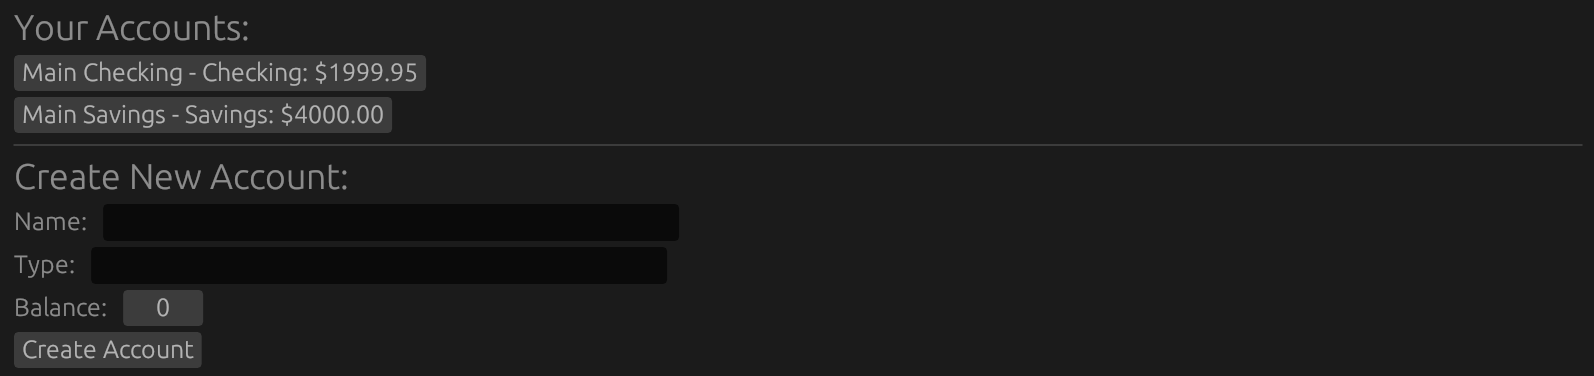
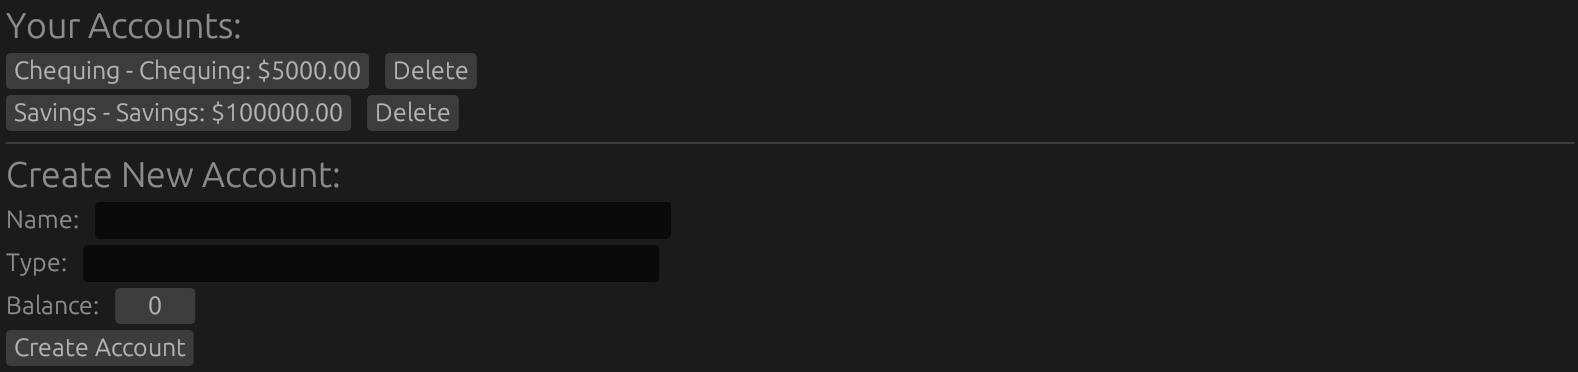
updated README

diff --git a/README.md b/README.md
@@ -79,6 +79,8 @@ FinanceR is a desktop GUI personal finance manager with secure user accounts and
 **To begin:**
 1. Run the FinanceR application.
 2. You will start on the **Login** screen.
+![FinanceR Registration Screen](images/Login_page.png)
+3. Click on the **Register** button to setup as a new User.
 
 ---
 
@@ -92,7 +94,7 @@ On the **FinanceR Registration** screen:
 3. Enter a **Password**
 4. Click **Create account**
 
-If successful, you can return to login via **Back to Login**.
+If the email is of a valid format, a new User will be created, and you will be taken back to the Login Screen.
 
 **Security note:** Passwords are not stored in plain text. FinanceR stores password hashes using a secure hashing algorithm.
 
@@ -100,7 +102,7 @@ If successful, you can return to login via **Back to Login**.
 
 ### 3. Logging In
 
-![FinanceR Login Screen](images/login.png)
+![FinanceR Login Screen](images/Login_page.png)
 
 On the **FinanceR Login** screen:
 1. Enter your **Username**
@@ -115,32 +117,33 @@ If credentials are valid, you will be taken to the **Dashboard**.
 
 The **FinanceR Dashboard** is the home screen after login.
 
-![FinanceR Dashboard Screen](images/dashboard.png)
+![FinanceR Dashboard Screen](images/homepage.png)
 
 It includes:
-- **Your Accounts**: a list of existing accounts and their balances.
-- **Create New Account**: create new accounts directly from the dashboard.
-- Navigation buttons:
-  - **Budgets**
+- **Basic Controls**: Logout, Delete User and Exit Program buttons
+- **Your Accounts**: a list of existing accounts and their balances, and a button to delete an account
+- **Create New Account**: create new accounts directly from the dashboard
+- **Accounts and Activity**:
   - **Transactions**
   - **Transfers**
+  - **Budgets**
 - **Planning Tools**
+  - **Savings Calculator**
   - **Bond Tools**
   - **Mortgage Tools**
   - **Cash Flow Tools**
-- **Logout** to return to the login screen.
 
 ---
 
 ### 5. Account Management
 
-Accounts represent financial containers such as checking or savings accounts.
+Accounts represent financial containers such as chequing or savings accounts.
 
-![FinanceR Accounts Screen](images/accounts.png)
+![FinanceR Accounts Screen](images/Accounts.png)
 
 **To create a new account:**
 1. Enter an account **Name**
-2. Enter an account **Type** (e.g., Checking, Savings)
+2. Enter an account **Type** (e.g., Chequing, Savings)
 3. Enter an initial **Balance**
 4. Click **Create Account**
 
@@ -152,9 +155,21 @@ The account will immediately appear in **Your Accounts**, and its balance will b
 
 Open **Transactions** from the Dashboard to record income and expenses.
 
-![FinanceR Transactions Screen](images/transactions.png)
+![FinanceR Transactions Screen](images/Transactions.png)
 
-#### Adding a Transaction
+#### Adding a New Transaction
+
+1. Select an **Account**
+2. Enter an **Amount**
+3. Toggle **Expense** if the transaction is a cost (unchecked indicates income)
+4. Choose a **Category** (e.g., Food & Dining, Groceries, Income)
+5. Select a **Next Run** Date and Time
+6. Select a **Frequency**
+7. Click **Add Recurring Transaction**
+
+Account balances update automatically.
+
+#### Adding a New Recurring Transaction
 
 1. Select an **Account**
 2. Enter an **Amount**
@@ -181,7 +196,7 @@ Transaction history can be filtered by:
 
 #### Exporting Transactions
 
-Click **Export CSV** to download transaction data in CSV format.
+Click **Export CSV Report** to download a transaction report in CSV format.
 
 ---
 
@@ -189,7 +204,7 @@ Click **Export CSV** to download transaction data in CSV format.
 
 Open **Transfers** from the Dashboard to move funds between accounts.
 
-![FinanceR Transfers Screen](images/transfers.png)
+![FinanceR Transfers Screen](images/Transfers.png)
 
 #### Creating a Transfer
 
@@ -198,6 +213,17 @@ Open **Transfers** from the Dashboard to move funds between accounts.
 3. Enter an **Amount**
 4. Choose a **Date**
 5. Click **Execute Transfer**
+
+Transfers update both account balances simultaneously.
+
+#### Creating a Recurring Transfer
+
+1. Select a **From Account**
+2. Select a **To Account**
+3. Enter an **Amount**
+4. Choose a **Next Run** Date and Time
+5. Select a **Frequency** from the menu
+6. Click **Add Recurring Transfer**
 
 Transfers update both account balances simultaneously.
 
@@ -290,20 +316,31 @@ The Budgets screen includes visual summaries to aid financial insight:
 
 ### 9. Planning Tools
 
-FinanceR includes planning utilities for long-term financial projections. All tools support saving and loading scenarios via JSON files.
+FinanceR includes planning utilities for long-term financial projections. The Bond, Mortgage, and Cash Flow tools support saving and loading scenarios via JSON files.
 
-![FinanceR Planning Tools Screen](images/planningtools.png)
+![FinanceR Planning Tools Screen](images/PlanningTools.png)
 
 ---
 
-#### 9.1 Bond Tools
+#### 9.1 Savings Calculator
+
+The Savings Tool allows users to project how their savings will grow.
+
+![FinanceR Bond Tools Screen](images/Savings.png)
+
+**Workflow**
+1. 
+
+---
+
+#### 9.2 Bond Tools
 
 The Bond Tools allow users to price fixed-income securities.
 
 ![FinanceR Bond Tools Screen](images/bonds.png)
 
 **Workflow:**
-1. Specify a JSON file name (e.g., `bond_state.json`)
+1. Specify a JSON file name (default: `bond_state.json`)
 2. Click **Load** to restore previous scenarios (optional)
 3. Click **Add Bond Scenario**
 4. Enter:
@@ -319,7 +356,7 @@ Use **Save** to persist scenarios.
 
 ---
 
-#### 9.2 Mortgage Tools
+#### 9.3 Mortgage Tools
 
 Mortgage Tools compute payments and compare mortgage scenarios.
 
@@ -341,7 +378,7 @@ Scenarios can be saved and reloaded.
 
 ---
 
-#### 9.3 Cash Flow Tools
+#### 9.4 Cash Flow Tools
 
 Cash Flow Tools support present/future value calculations and multi-cash-flow scenarios.
 
@@ -609,7 +646,7 @@ The development of this project provided a deeply engaging and comprehensive lea
 
 One of the most significant lessons concerned our approach to testing and development methodology. Our team did not adopt test-driven development during the early stages, opting instead to implement functionality first and introduce tests retrospectively. While this approach allowed for rapid initial development, it introduced additional complexity later when validating the system’s correctness. Writing tests after the fact revealed design shortcomings, including tightly coupled components, unclear module boundaries, and untested edge cases, which required extensive refactoring to address. For example, certain state-handling functions in the GUI relied on assumptions that were not easily decoupled for testing, necessitating the creation of additional abstractions to make the tests feasible. This experience reinforced that testing is not solely a verification mechanism but also an integral part of system design, encouraging modularity, clearer interfaces, and more deliberate architectural decisions. When combined with Rust’s strong type system, ownership model, and compile-time guarantees, adopting TDD from the beginning would likely have prevented a number of these issues, improved code correctness, and reduced technical debt, enhancing confidence in both individual components and the system as a whole. 
 
-A further lesson emerged from our experience with data modeling and database interactions. Leveraging an Object-Relational Mapping library to interface with a SQLite database greatly simplified the process of handling persistent data while also encouraging a clean and modular project structure. Expressing queries, schema definitions, and migrations directly in Rust reduced boilerplate code, allowed the compiler to catch errors early, and made the overall system easier to reason about. At the same time, our early decisions regarding core data models highlighted the importance of deliberate planning. Several Rust structs were initially defined to anticipate future features but ended up unused as the project evolved, necessitating the use of allow dead code annotations to suppress compiler warnings. This underscored the value of aligning planned models with actual system requirements and demonstrated that periodic review and refactoring of data structures is crucial to maintain clarity and reduce unnecessary complexity. Rust’s strict compiler feedback provided a continuous reminder of the need for intentional design and offered guidance for removing redundant abstractions, thereby reinforcing disciplined coding practices and emphasizing the balance between anticipating future needs and adhering to current functionality. 
+A further lesson emerged from our experience with data modeling and database interactions. Leveraging Object-Relational Mapping to interface with a SQLite database greatly simplified the process of handling persistent data while also encouraging a clean and modular project structure. Expressing queries, schema definitions, and migrations directly in Rust reduced boilerplate code, allowed the compiler to catch errors early, and made the overall system easier to reason about. At the same time, our early decisions regarding core data models highlighted the importance of deliberate planning. Several Rust structs were initially defined to anticipate future features but ended up unused as the project evolved, necessitating the use of allow dead code annotations to suppress compiler warnings. This underscored the value of aligning planned models with actual system requirements and demonstrated that periodic review and refactoring of data structures is crucial to maintain clarity and reduce unnecessary complexity. Rust’s strict compiler feedback provided a continuous reminder of the need for intentional design and offered guidance for removing redundant abstractions, thereby reinforcing disciplined coding practices and emphasizing the balance between anticipating future needs and adhering to current functionality. 
 
 Working with Rust’s graphical user interface ecosystem, particularly through the egui library, proved to be another area of substantial learning. While Rust is often associated with systems programming or backend development, building a GUI application revealed its suitability for interactive, user-facing software. The immediate-mode GUI paradigm of egui integrated naturally with Rust’s ownership and borrowing model, allowing clear management of application state while ensuring memory safety. Handling user interactions, updating the interface dynamically, and maintaining consistent state across multiple components required careful attention to explicit data flow and state encapsulation. This experience emphasized the versatility of Rust and its ability to support performant applications without compromising safety or maintainability. It also reinforced software design principles such as separation of concerns, predictability in state transitions, and careful handling of mutable data, demonstrating that Rust can serve as a strong foundation for both low-level and high-level application development.  
 
